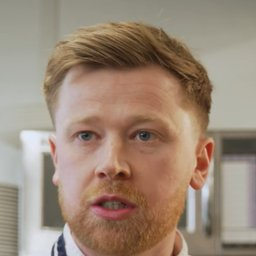
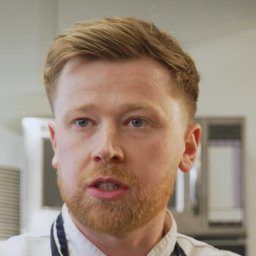
NGO page: recrop Dan Rosser's headshot to show his full chin
Head now sits at the same scale as the others. Contributor images get a ?v= query so browsers fetch the replaced file.

diff --git a/ngo/index.html b/ngo/index.html
@@ -30,8 +30,8 @@
 
 <link rel="icon" type="image/svg+xml" href="../assets/img/favicon.svg">
 <link rel="stylesheet" href="../assets/css/tokens.css">
-<link rel="stylesheet" href="../assets/css/screenings.css?v=20261014-ngo33">
-<link rel="stylesheet" href="../assets/css/ngo.css?v=20261014-ngo33">
+<link rel="stylesheet" href="../assets/css/screenings.css?v=20261014-ngo34">
+<link rel="stylesheet" href="../assets/css/ngo.css?v=20261014-ngo34">
 </head>
 <body class="ngo-page">
 
@@ -59,9 +59,9 @@
 <main id="app-main"></main>
 <div id="app-footer"></div>
 
-<script src="../assets/js/config.ngo.js?v=20261014-ngo33"></script>
-<script src="../assets/js/components.js?v=20261014-ngo33"></script>
-<script src="../assets/js/components.ngo.js?v=20261014-ngo33"></script>
+<script src="../assets/js/config.ngo.js?v=20261014-ngo34"></script>
+<script src="../assets/js/components.js?v=20261014-ngo34"></script>
+<script src="../assets/js/components.ngo.js?v=20261014-ngo34"></script>
 <script>
   // Shared chrome from components.js; the four middle sections are
   // specific to this page and live in components.ngo.js.

diff --git a/assets/js/components.ngo.js b/assets/js/components.ngo.js
@@ -49,7 +49,7 @@ const TTSN = (() => {
 
     const people = n.contributors.map((c) => {
       const portrait = c.photo
-        ? `<img class="ngo-person__photo" src="${asset("assets/img/contributors/" + c.photo)}" alt="${c.name}" loading="lazy" width="64" height="64">`
+        ? `<img class="ngo-person__photo" src="${asset("assets/img/contributors/" + c.photo)}?v=20261014" alt="${c.name}" loading="lazy" width="64" height="64">`
         : `<span class="ngo-person__photo ngo-person__photo--missing" role="img" aria-label="No photograph of ${c.name} yet">
              <span class="ngo-person__initials" aria-hidden="true">${initials(c.name)}</span>
              <span class="ngo-person__missing" aria-hidden="true">Photo to source</span>
